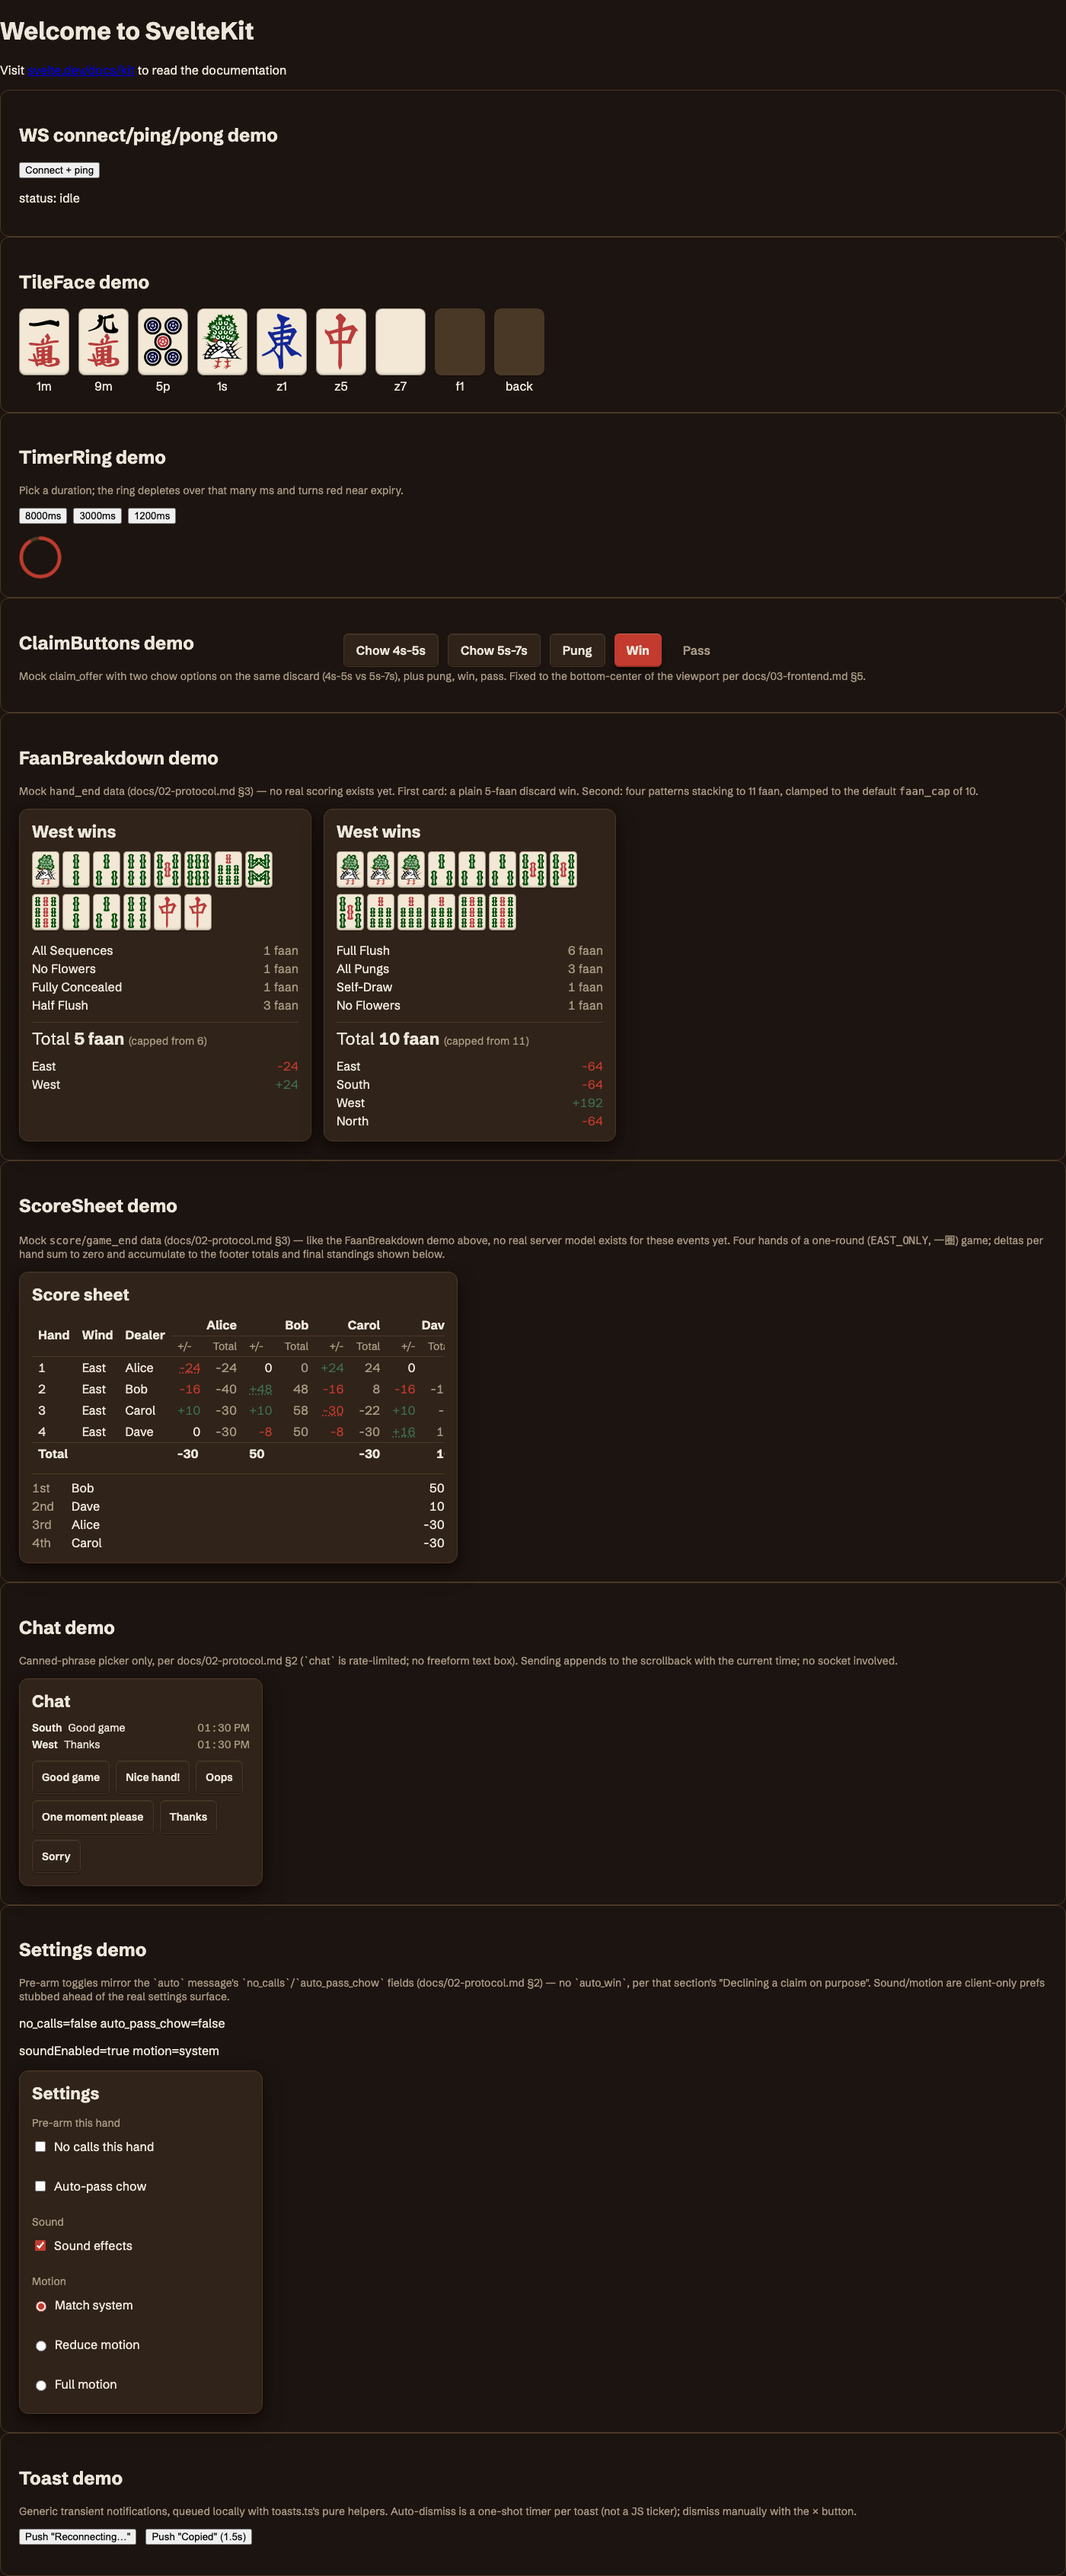
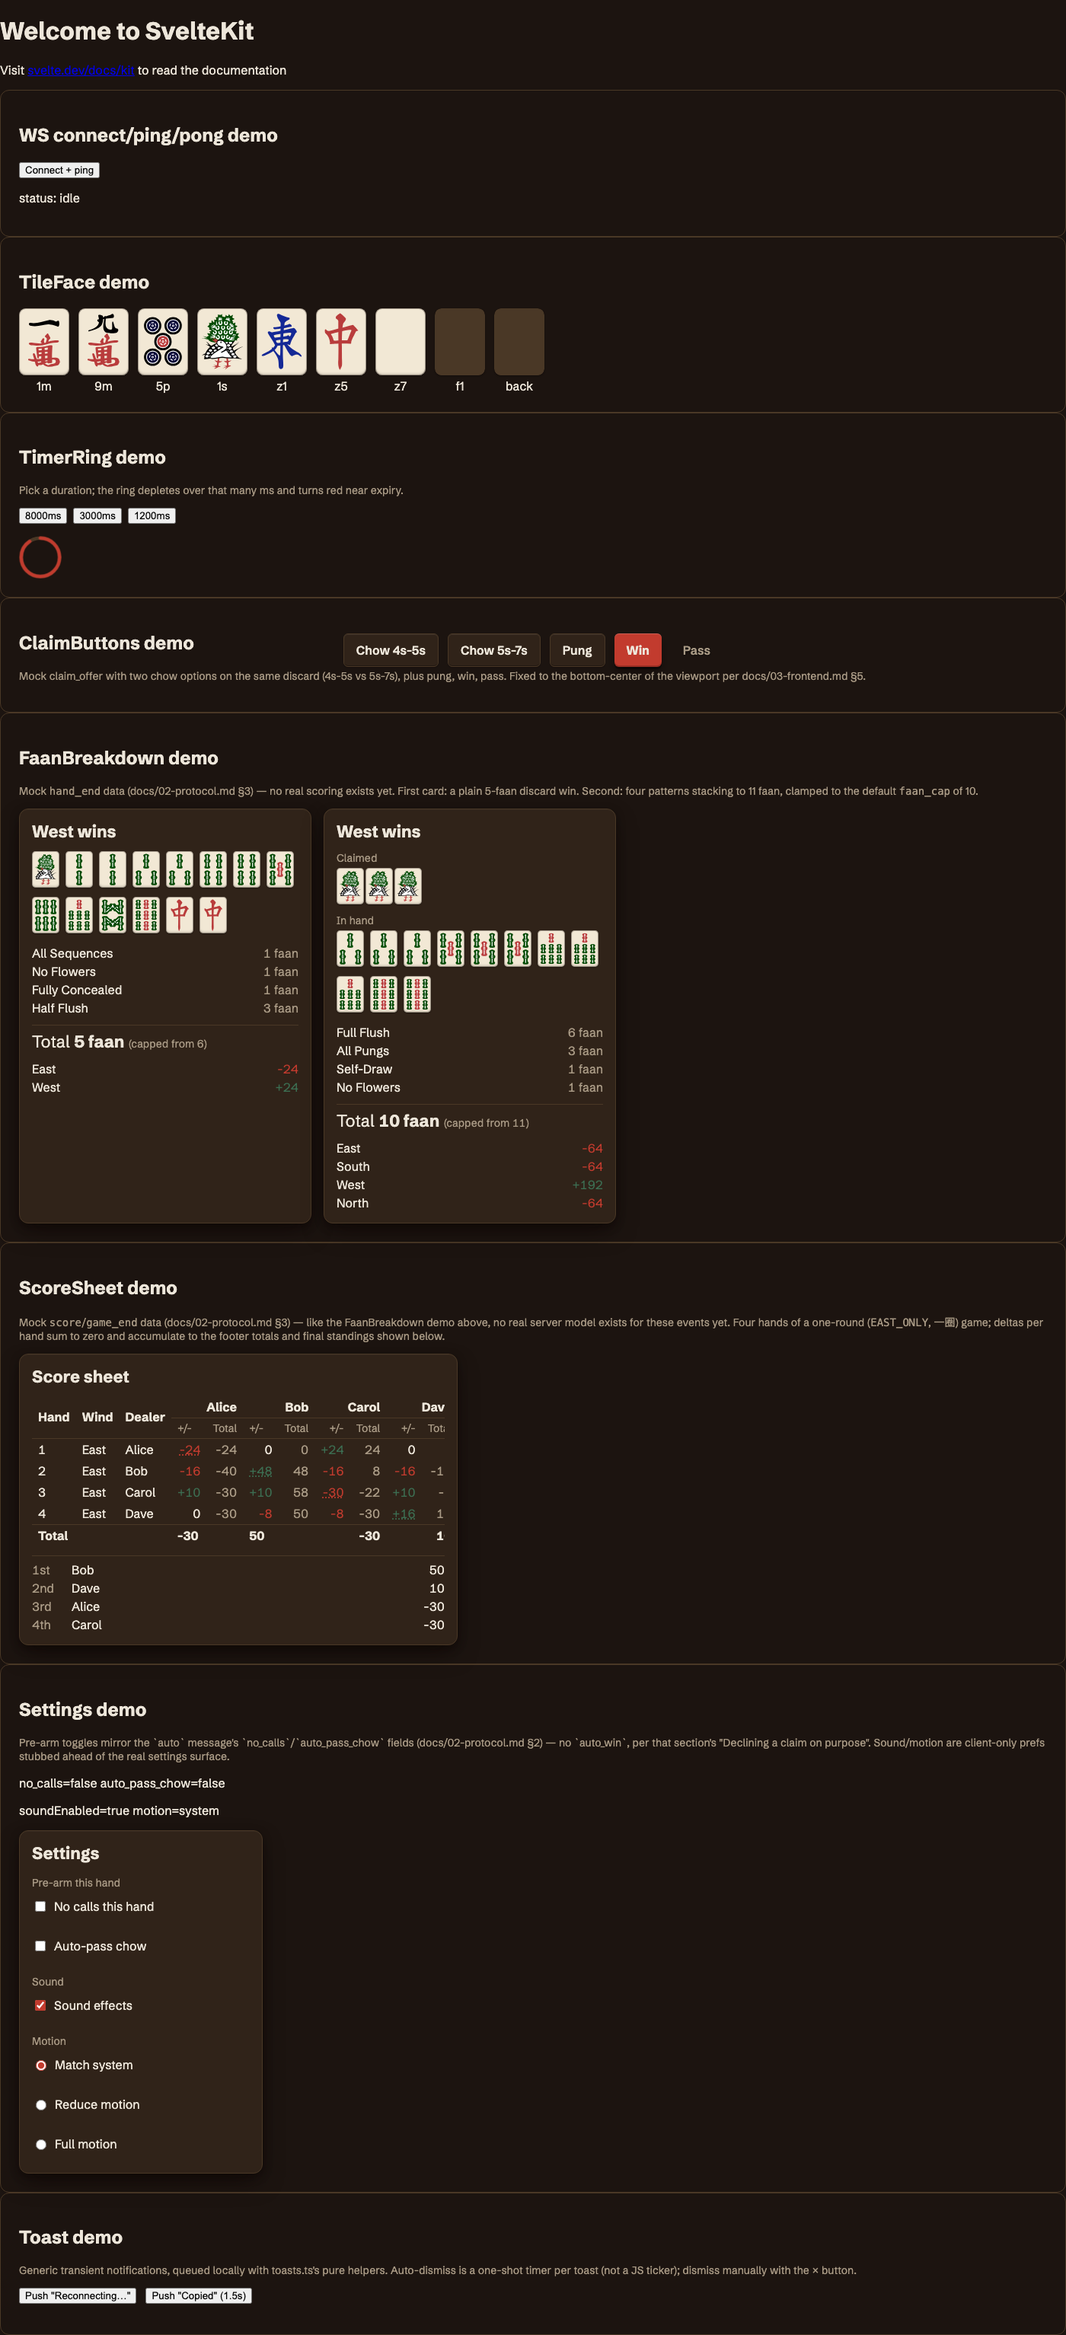
feat(web): split claimed melds from concealed hand in win screen
FaanBreakdown showed the winner's whole hand as one flat, unsorted
tile row. Add a `melds` prop rendered as a separate "Claimed" group
before "In hand", with both groups sorted by suit/rank so the reveal
reads clearly.

diff --git a/web/src/lib/ui/FaanBreakdown.svelte b/web/src/lib/ui/FaanBreakdown.svelte
@@ -4,6 +4,16 @@
 
 	export type Seat = 0 | 1 | 2 | 3;
 
+	// mirrors melds.MeldKind, minus PAIR (mock-game-state.ts's MockMeld) -- kept as a local type
+	// rather than importing MockMeld itself, since this component only needs `kind`/`tiles`, not
+	// the seat-relative fixture shape.
+	export type MeldKind = 'chow' | 'pung' | 'exposed_kong' | 'concealed_kong' | 'added_kong';
+
+	export interface WinningMeld {
+		kind: MeldKind;
+		tiles: TileCode[];
+	}
+
 	export interface FaanPattern {
 		name: string;
 		faan: number;
@@ -22,16 +32,40 @@
 	let {
 		winner,
 		winningHand,
+		melds = [],
 		patterns,
 		totalFaan,
 		payments
 	}: {
 		winner: Seat;
 		winningHand: TileCode[];
+		melds?: WinningMeld[];
 		patterns: FaanPattern[];
 		totalFaan: number;
 		payments: Payments;
 	} = $props();
+
+	// reading order within a suit (docs/01-rules-spec.md §1's index layout: m, p, s, then
+	// honors) -- winningHand/meld tiles arrive in claim/draw order, not sorted, so the raw wire
+	// order would scatter identical/sequential tiles across the display.
+	const SUIT_ORDER: Record<string, number> = { m: 0, p: 1, s: 2 };
+	function tileSortKey(code: TileCode): number {
+		return code[0] === 'z'
+			? 30 + Number(code[1])
+			: (SUIT_ORDER[code[1]] ?? 9) * 9 + Number(code[0]);
+	}
+	function sortTiles(tiles: TileCode[]): TileCode[] {
+		return tiles.slice().sort((a, b) => tileSortKey(a) - tileSortKey(b));
+	}
+
+	// melds themselves sorted by their first tile too, so a hand with several claimed sets reads
+	// left-to-right in the same suit order as the concealed tiles beside them.
+	let sortedMelds = $derived(
+		melds
+			.map((meld) => ({ ...meld, tiles: sortTiles(meld.tiles) }))
+			.sort((a, b) => tileSortKey(a.tiles[0]) - tileSortKey(b.tiles[0]))
+	);
+	let sortedConcealedHand = $derived(sortTiles(winningHand));
 
 	// docs/01-rules-spec.md §7 clamps the total to `RuleSet.faan_cap` server-side ("Total is
 	// clamped") but still reports every matched pattern at its full value — comparing the raw
@@ -50,11 +84,34 @@
 <section class="faan-breakdown" aria-labelledby="faan-breakdown-heading">
 	<h2 id="faan-breakdown-heading">{SEAT_LABEL[winner]} wins</h2>
 
-	{#if winningHand.length > 0}
+	{#if sortedMelds.length > 0 || sortedConcealedHand.length > 0}
 		<div class="winning-hand">
-			{#each winningHand as code, index (`${index}:${code}`)}
-				<div class="tile"><TileFace {code} /></div>
-			{/each}
+			{#if sortedMelds.length > 0}
+				<div class="tile-group">
+					<span class="group-label">Claimed</span>
+					<div class="melds">
+						{#each sortedMelds as meld, mi (mi)}
+							<div class="meld">
+								{#each meld.tiles as code, ti (`${mi}:${ti}:${code}`)}
+									<div class="tile">
+										<TileFace code={meld.kind === 'concealed_kong' ? null : code} />
+									</div>
+								{/each}
+							</div>
+						{/each}
+					</div>
+				</div>
+			{/if}
+			{#if sortedConcealedHand.length > 0}
+				<div class="tile-group">
+					{#if sortedMelds.length > 0}<span class="group-label">In hand</span>{/if}
+					<div class="concealed-hand">
+						{#each sortedConcealedHand as code, index (`${index}:${code}`)}
+							<div class="tile"><TileFace {code} /></div>
+						{/each}
+					</div>
+				</div>
+			{/if}
 		</div>
 	{/if}
 
@@ -108,8 +165,31 @@
 
 	.winning-hand {
 		display: flex;
-		flex-wrap: wrap;
+		flex-direction: column;
+		gap: var(--space-2);
+	}
+
+	.tile-group {
+		display: flex;
+		flex-direction: column;
 		gap: var(--space-1);
+	}
+
+	.group-label {
+		font-size: var(--font-size-sm);
+		color: var(--color-text-muted);
+	}
+
+	.melds,
+	.concealed-hand {
+		display: flex;
+		flex-wrap: wrap;
+		gap: var(--space-2);
+	}
+
+	.meld {
+		display: flex;
+		gap: 2px;
 	}
 
 	.tile :global(.tile-face) {

diff --git a/web/src/lib/ui/FaanBreakdown.spec.ts b/web/src/lib/ui/FaanBreakdown.spec.ts
@@ -1,7 +1,7 @@
 import { describe, it, expect } from 'vitest';
 import { render } from 'svelte/server';
 import FaanBreakdown from './FaanBreakdown.svelte';
-import type { FaanPattern, Payments } from './FaanBreakdown.svelte';
+import type { FaanPattern, Payments, WinningMeld } from './FaanBreakdown.svelte';
 
 describe('FaanBreakdown', () => {
 	const patterns: FaanPattern[] = [
@@ -66,5 +66,50 @@ describe('FaanBreakdown', () => {
 			props: { winner: 3, winningHand: [], patterns, totalFaan: 5, payments: { 3: 24, 1: -24 } }
 		});
 		expect(body).toContain('North wins');
+	});
+
+	it('sorts the concealed hand by suit and rank regardless of wire order', () => {
+		const { body } = render(FaanBreakdown, {
+			props: {
+				winner: 2,
+				winningHand: ['9s', '1m', 'z5', '1s', '5p'],
+				patterns,
+				totalFaan: 5,
+				payments
+			}
+		});
+		const order = [...body.matchAll(/alt="([^"]+) tile"/g)].map((m) => m[1]);
+		expect(order).toEqual(['1m', '5p', '1s', '9s', 'z5']);
+	});
+
+	it('renders claimed melds separately from, and before, the concealed hand', () => {
+		const melds: WinningMeld[] = [{ kind: 'pung', tiles: ['9s', '9s', '9s'] }];
+		const { body } = render(FaanBreakdown, {
+			props: { winner: 2, winningHand: ['1m', '2m', '3m'], melds, patterns, totalFaan: 5, payments }
+		});
+		expect(body).toMatch(/class="melds\b/);
+		expect(body).toMatch(/class="concealed-hand\b/);
+		expect(body).toContain('Claimed');
+		expect(body).toContain('In hand');
+		const order = [...body.matchAll(/alt="([^"]+) tile"/g)].map((m) => m[1]);
+		expect(order).toEqual(['9s', '9s', '9s', '1m', '2m', '3m']);
+	});
+
+	it('omits the claimed/in-hand labels when there are no claimed melds', () => {
+		const { body } = render(FaanBreakdown, {
+			props: { winner: 2, winningHand: ['1m', '2m', '3m'], patterns, totalFaan: 5, payments }
+		});
+		expect(body).not.toMatch(/class="melds\b/);
+		expect(body).not.toContain('Claimed');
+		expect(body).not.toContain('In hand');
+	});
+
+	it('renders a concealed_kong meld as backs, matching the in-play convention', () => {
+		const melds: WinningMeld[] = [{ kind: 'concealed_kong', tiles: ['z1', 'z1', 'z1', 'z1'] }];
+		const { body } = render(FaanBreakdown, {
+			props: { winner: 2, winningHand: [], melds, patterns, totalFaan: 5, payments }
+		});
+		expect(body).toContain('concealed tile');
+		expect(body).not.toContain('alt="z1 tile"');
 	});
 });

diff --git a/web/src/routes/+page.svelte b/web/src/routes/+page.svelte
@@ -8,7 +8,11 @@
 	import type { TileCode } from '$lib/table/tile-code';
 	import ClaimButtons, { type ClaimOption } from '$lib/ui/ClaimButtons.svelte';
 	import TimerRing from '$lib/ui/TimerRing.svelte';
-	import FaanBreakdown, { type FaanPattern, type Payments } from '$lib/ui/FaanBreakdown.svelte';
+	import FaanBreakdown, {
+		type FaanPattern,
+		type Payments,
+		type WinningMeld
+	} from '$lib/ui/FaanBreakdown.svelte';
 	import ScoreSheet, {
 		type HandRecord,
 		type SeatInfo,
@@ -104,6 +108,10 @@
 		{ name: 'No Flowers', faan: 1 }
 	];
 	const cappedPayments: Payments = { 0: -64, 1: -64, 2: 192, 3: -64 };
+	// one of the four pungs was claimed off a discard earlier in the hand -- All Pungs doesn't
+	// care whether a set is concealed or exposed, so this stays a valid capped hand while also
+	// exercising FaanBreakdown's claimed/in-hand split.
+	const cappedMelds: WinningMeld[] = [{ kind: 'pung', tiles: ['1s', '1s', '1s'] }];
 
 	// ScoreSheet demo (this sub-task): mock score/game_end data — like hand_end above, still
 	// doc-only sketches with no server model yet (docs/02-protocol.md §3). EAST_ONLY (一圈,
@@ -240,22 +248,8 @@
 		/>
 		<FaanBreakdown
 			winner={2}
-			winningHand={[
-				'1s',
-				'1s',
-				'1s',
-				'3s',
-				'3s',
-				'3s',
-				'5s',
-				'5s',
-				'5s',
-				'7s',
-				'7s',
-				'7s',
-				'9s',
-				'9s'
-			]}
+			winningHand={['3s', '3s', '3s', '5s', '5s', '5s', '7s', '7s', '7s', '9s', '9s']}
+			melds={cappedMelds}
 			patterns={cappedPatterns}
 			totalFaan={10}
 			payments={cappedPayments}

diff --git a/web/src/lib/table/mock-game-state.ts b/web/src/lib/table/mock-game-state.ts
@@ -270,7 +270,7 @@ export const handJustEnded: MockGameState = {
 		}),
 		emptySeat(2, {
 			concealedCount: 0,
-			melds: [],
+			melds: [{ kind: 'chow', tiles: ['2s', '3s', '4s'], fromSeat: 1 }],
 			discards: ['9m', '1p', '5s'],
 			flowers: ['f2'],
 			score: 10 + 48
@@ -285,22 +285,9 @@ export const handJustEnded: MockGameState = {
 		outcome: 'win',
 		winner: 2,
 		winType: 'self_draw',
-		winningHand: [
-			'1s',
-			'2s',
-			'3s',
-			'4s',
-			'5s',
-			'6s',
-			'7s',
-			'8s',
-			'9s',
-			'2s',
-			'3s',
-			'4s',
-			'z5',
-			'z5'
-		],
+		// concealed portion only -- the meld's 2s-3s-4s chow (seat 2's `melds` above) was already
+		// claimed earlier in the hand, so it's not part of the concealed tiles at hand-end.
+		winningHand: ['1s', '2s', '3s', '4s', '5s', '6s', '7s', '8s', '9s', 'z5', 'z5'],
 		patterns: [
 			{ name: 'All Sequences', faan: 1 },
 			{ name: 'No Flowers', faan: 1 },

diff --git a/web/src/routes/table/[id]/+page.svelte b/web/src/routes/table/[id]/+page.svelte
@@ -846,6 +846,7 @@
 						<FaanBreakdown
 							winner={gameState.handResult.winner as 0 | 1 | 2 | 3}
 							winningHand={gameState.handResult.winningHand ?? []}
+							melds={gameState.seats[gameState.handResult.winner as 0 | 1 | 2 | 3].melds}
 							patterns={gameState.handResult.patterns ?? []}
 							totalFaan={gameState.handResult.totalFaan ?? 0}
 							payments={gameState.handResult.payments ?? {}}
